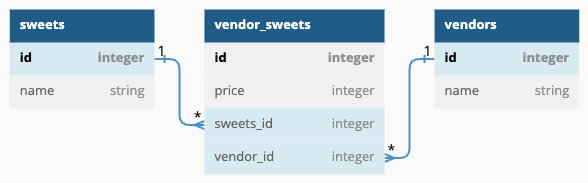
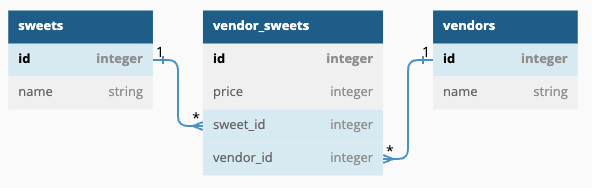
fix er diagram foreign key sweet_id, fix app_test docstrings

diff --git a/server/testing/app_test.py b/server/testing/app_test.py
@@ -179,8 +179,9 @@ class TestApp:
             assert response.status_code == 400
             assert response.json['errors'] == ["validation errors"]
 
+
     def test_deletes_vendor_sweet_by_id(self):
-        '''deletes restaurant with DELETE request to /restaurants/<int:id>.'''
+        '''deletes VendorSweet with DELETE request to /vendor_sweets/<int:id>.'''
 
         with app.app_context():
             fake = Faker()
@@ -205,7 +206,7 @@ class TestApp:
             assert result is None
 
     def test_returns_404_if_no_vendor_sweet_to_delete(self):
-        '''returns an error message and 404 status code with DELETE request to /restaurants/<int:id> by a non-existent ID.'''
+        '''returns an error message and 404 status code with DELETE request to /vendor_sweets/<int:id> by a non-existent ID.'''
 
         with app.app_context():
             response = app.test_client().delete('/vendor_sweets/0')
